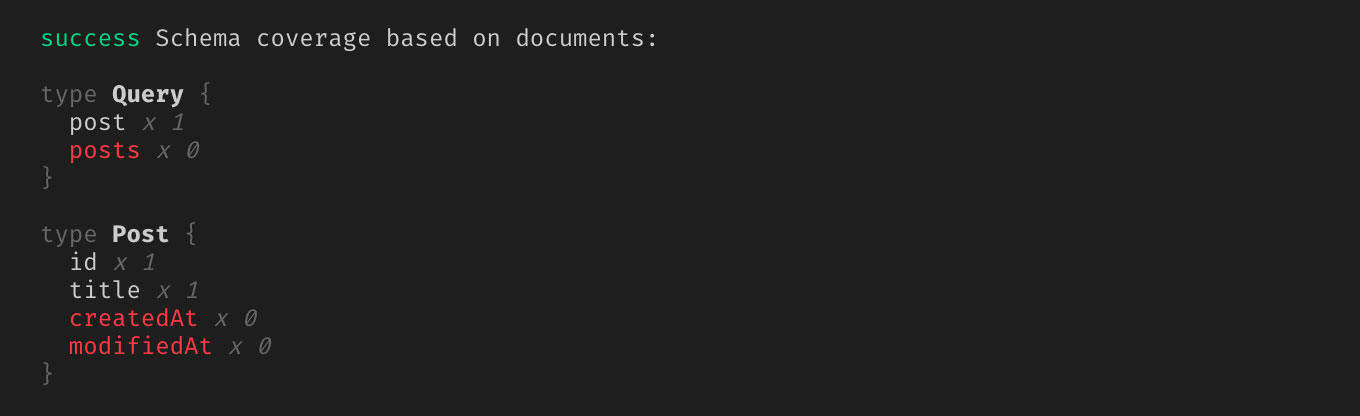
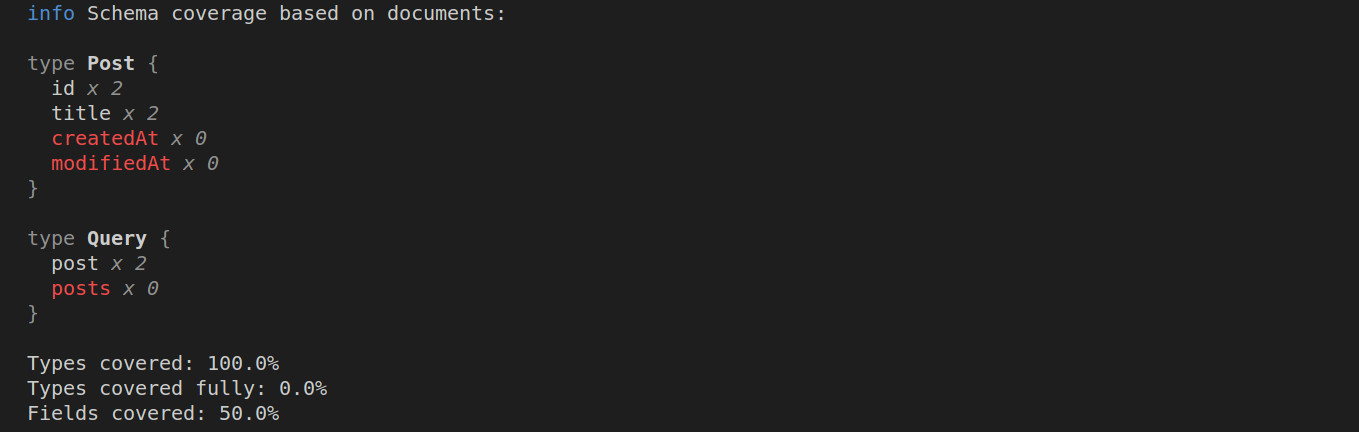
coverage: provide overall statistics about coverage

Changed region(s): [[0.0, 0.0, 0.4945, 0.4062], [0.0, 0.75, 0.2472, 1.0], [0.0, 0.5312, 0.1236, 0.7188]]

diff --git a/packages/core/src/coverage/index.ts b/packages/core/src/coverage/index.ts
@@ -21,6 +21,8 @@ export interface Location {
 
 export interface ArgumentCoverage {
   hits: number;
+  fieldsCount: number;
+  fieldsCountCovered: number;
   locations: {
     [name: string]: Array<Location>;
   };
@@ -28,6 +30,8 @@ export interface ArgumentCoverage {
 
 export interface TypeChildCoverage {
   hits: number;
+  fieldsCount: number;
+  fieldsCountCovered: number;
   locations: {
     [name: string]: Array<Location>;
   };
@@ -38,6 +42,8 @@ export interface TypeChildCoverage {
 
 export interface TypeCoverage {
   hits: number;
+  fieldsCount: number;
+  fieldsCountCovered: number;
   type: GraphQLNamedType;
   children: {
     [name: string]: TypeChildCoverage;
@@ -48,6 +54,13 @@ export interface SchemaCoverage {
   sources: Source[];
   types: {
     [typename: string]: TypeCoverage;
+  };
+  stats: {
+    numTypes: number;
+    numTypesCoveredFully: number;
+    numTypesCovered: number;
+    numFields: number;
+    numFiledsCovered: number;
   };
 }
 
@@ -60,6 +73,13 @@ export function coverage(schema: GraphQLSchema, sources: Source[]): SchemaCovera
   const coverage: SchemaCoverage = {
     sources,
     types: {},
+    stats: {
+      numTypes: 0,
+      numTypesCoveredFully: 0,
+      numTypesCovered: 0,
+      numFields: 0,
+      numFiledsCovered: 0,
+    },
   };
   const typeMap = schema.getTypeMap();
   const typeInfo = new TypeInfo(schema);
@@ -114,6 +134,8 @@ export function coverage(schema: GraphQLSchema, sources: Source[]): SchemaCovera
       if (isObjectType(type) || isInterfaceType(type)) {
         const typeCoverage: TypeCoverage = {
           hits: 0,
+          fieldsCount: 0,
+          fieldsCountCovered: 0,
           type,
           children: {},
         };
@@ -124,6 +146,8 @@ export function coverage(schema: GraphQLSchema, sources: Source[]): SchemaCovera
 
           typeCoverage.children[field.name] = {
             hits: 0,
+            fieldsCount: 0,
+            fieldsCountCovered: 0,
             locations: {},
             children: {},
           };
@@ -131,6 +155,8 @@ export function coverage(schema: GraphQLSchema, sources: Source[]): SchemaCovera
           for (const arg of field.args) {
             typeCoverage.children[field.name].children[arg.name] = {
               hits: 0,
+              fieldsCount: 0,
+              fieldsCountCovered: 0,
               locations: {},
             };
           }
@@ -153,5 +179,36 @@ export function coverage(schema: GraphQLSchema, sources: Source[]): SchemaCovera
     });
   });
 
+  for (const key in coverage.types) {
+    const me = coverage.types[key];
+    processStats(me);
+
+    coverage.stats.numTypes++;
+    if (me.fieldsCountCovered > 0) coverage.stats.numTypesCovered++;
+    if (me.fieldsCount == me.fieldsCountCovered) coverage.stats.numTypesCoveredFully++;
+    coverage.stats.numFields += me.fieldsCount;
+    coverage.stats.numFiledsCovered += me.fieldsCountCovered;
+  }
+
   return coverage;
+}
+
+function processStats(me: TypeCoverage | TypeChildCoverage) {
+  const children = me.children;
+  if (children) {
+    for (const k in children) {
+      const ch = children[k];
+
+      if ((ch as TypeChildCoverage).children !== undefined) {
+        processStats(ch as TypeChildCoverage);
+        me.fieldsCount += ch.fieldsCount;
+        me.fieldsCountCovered += ch.fieldsCountCovered;
+      }
+
+      me.fieldsCount++;
+      if (ch.hits > 0) {
+        me.fieldsCountCovered++;
+      }
+    }
+  }
 }

diff --git a/packages/core/__tests__/coverage/coverage.ts b/packages/core/__tests__/coverage/coverage.ts
@@ -18,7 +18,7 @@ describe('coverage', () => {
     type Query {
       post: Post
       posts: [Post!]
-      objectById(id: ID!): Identifiable
+      objectById(id: ID!, unused: String): Identifiable
     }
 
     type Mutation {
@@ -66,6 +66,7 @@ describe('coverage', () => {
     expect(results.types.Query.children.post.hits).toEqual(1);
     expect(results.types.Query.children.objectById.hits).toEqual(1);
     expect(results.types.Query.children.objectById.children.id.hits).toEqual(1);
+    expect(results.types.Query.children.objectById.children.unused.hits).toEqual(0);
     // Post
     expect(results.types.Post.hits).toEqual(5);
     expect(results.types.Post.children.id.hits).toEqual(2);
@@ -81,6 +82,47 @@ describe('coverage', () => {
     expect(results.types.Mutation.children.submitPost.hits).toEqual(1);
     expect(results.types.Mutation.children.submitPost.children.title.hits).toEqual(1);
     expect(results.types.Mutation.children.submitPost.children.author.hits).toEqual(1);
+
+    // stats
+    expect(results.stats.numTypes).toEqual(4);
+    expect(results.stats.numTypesCovered).toEqual(4);
+    expect(results.stats.numTypesCoveredFully).toEqual(1);
+    expect(results.stats.numFields).toEqual(14);
+    expect(results.stats.numFiledsCovered).toEqual(10);
+  });
+
+  test('no coverage', () => {
+    const results = coverage(schema, []);
+
+    // Query
+    expect(results.types.Query.hits).toEqual(0);
+    expect(results.types.Query.children.posts.hits).toEqual(0);
+    expect(results.types.Query.children.post.hits).toEqual(0);
+    expect(results.types.Query.children.objectById.hits).toEqual(0);
+    expect(results.types.Query.children.objectById.children.id.hits).toEqual(0);
+    expect(results.types.Query.children.objectById.children.unused.hits).toEqual(0);
+    // Post
+    expect(results.types.Post.hits).toEqual(0);
+    expect(results.types.Post.children.id.hits).toEqual(0);
+    expect(results.types.Post.children.title.hits).toEqual(0);
+    expect(results.types.Post.children.author.hits).toEqual(0);
+    expect(results.types.Post.children.createdAt.hits).toEqual(0);
+    // Identifiable
+    expect(results.types.Identifiable.hits).toEqual(0);
+    expect(results.types.Identifiable.children.id.hits).toEqual(0);
+    expect(results.types.Identifiable.children.createdAt.hits).toEqual(0);
+    // Mutation
+    expect(results.types.Mutation.hits).toEqual(0);
+    expect(results.types.Mutation.children.submitPost.hits).toEqual(0);
+    expect(results.types.Mutation.children.submitPost.children.title.hits).toEqual(0);
+    expect(results.types.Mutation.children.submitPost.children.author.hits).toEqual(0);
+
+    // stats
+    expect(results.stats.numTypes).toEqual(4);
+    expect(results.stats.numTypesCovered).toEqual(0);
+    expect(results.stats.numTypesCoveredFully).toEqual(0);
+    expect(results.stats.numFields).toEqual(14);
+    expect(results.stats.numFiledsCovered).toEqual(0);
   });
 
   test('introspection', () => {

diff --git a/packages/commands/coverage/src/index.ts b/packages/commands/coverage/src/index.ts
@@ -165,6 +165,29 @@ function renderCoverage(coverage: SchemaCoverage) {
       Logger.log(chalk.grey('}\n'));
     }
   }
+
+  Logger.log(
+    `Types covered: ${
+      coverage.stats.numTypes > 0
+        ? ((coverage.stats.numTypesCovered / coverage.stats.numTypes) * 100).toFixed(1)
+        : 'N/A'
+    }%`,
+  );
+  Logger.log(
+    `Types covered fully: ${
+      coverage.stats.numTypes > 0
+        ? ((coverage.stats.numTypesCoveredFully / coverage.stats.numTypes) * 100).toFixed(1)
+        : 'N/A'
+    }%`,
+  );
+  Logger.log(
+    `Fields covered: ${
+      coverage.stats.numFields > 0
+        ? ((coverage.stats.numFiledsCovered / coverage.stats.numFields) * 100).toFixed(1)
+        : 'N/A'
+    }%`,
+  );
+  Logger.log(``);
 }
 
 function indent(line: string, space: number): string {

diff --git a/.changeset/neat-pillows-eat.md b/.changeset/neat-pillows-eat.md
@@ -1,0 +1,5 @@
+---
+'@graphql-inspector/coverage-command': patch
+---
+
+coverage: overall statistics about coverage provided
